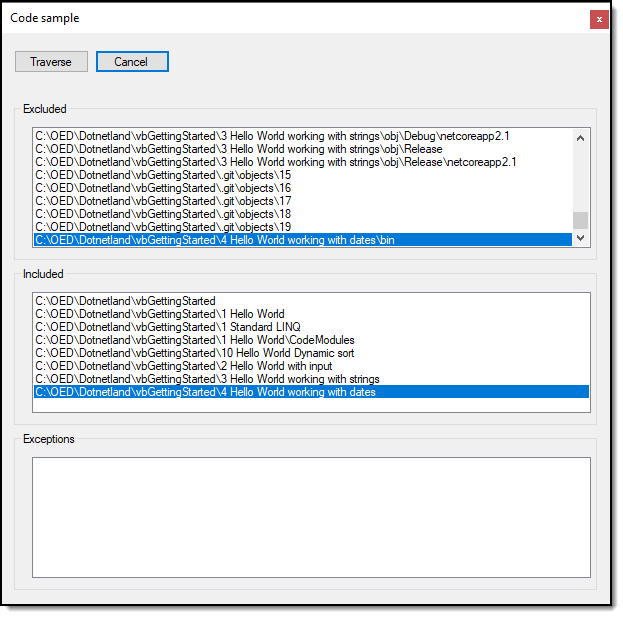
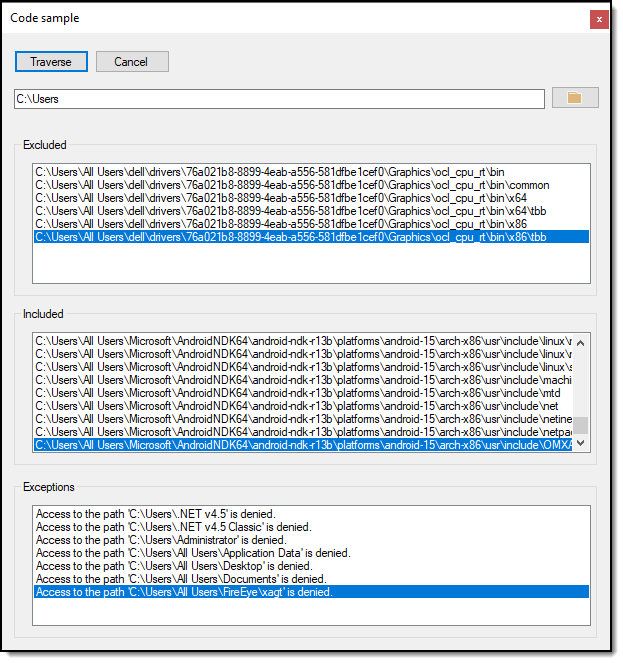
Refactored traversal of folders project

Changed region(s): [[0.0, 0.0, 0.9759, 0.9854], [0.8844, 0.1232, 0.9454, 0.1848], [0.9454, 0.0, 0.9759, 0.0616]]

diff --git a/RecurseFolders/readme.md b/RecurseFolders/readme.md
@@ -2,6 +2,10 @@
 
 Code sample which recursively iterates a folder structure.
 
+### Requires
+
+NuGet package [BetterFolderBrowser](https://www.nuget.org/packages/BetterFolderBrowser/) for selecting folders only thus is optional when using the code in this project in other projects.
+
 ### Visual Studio
 
 Coded in VS2017 and will work in VS2019, not tested in earlier releases of Visual Studio.
